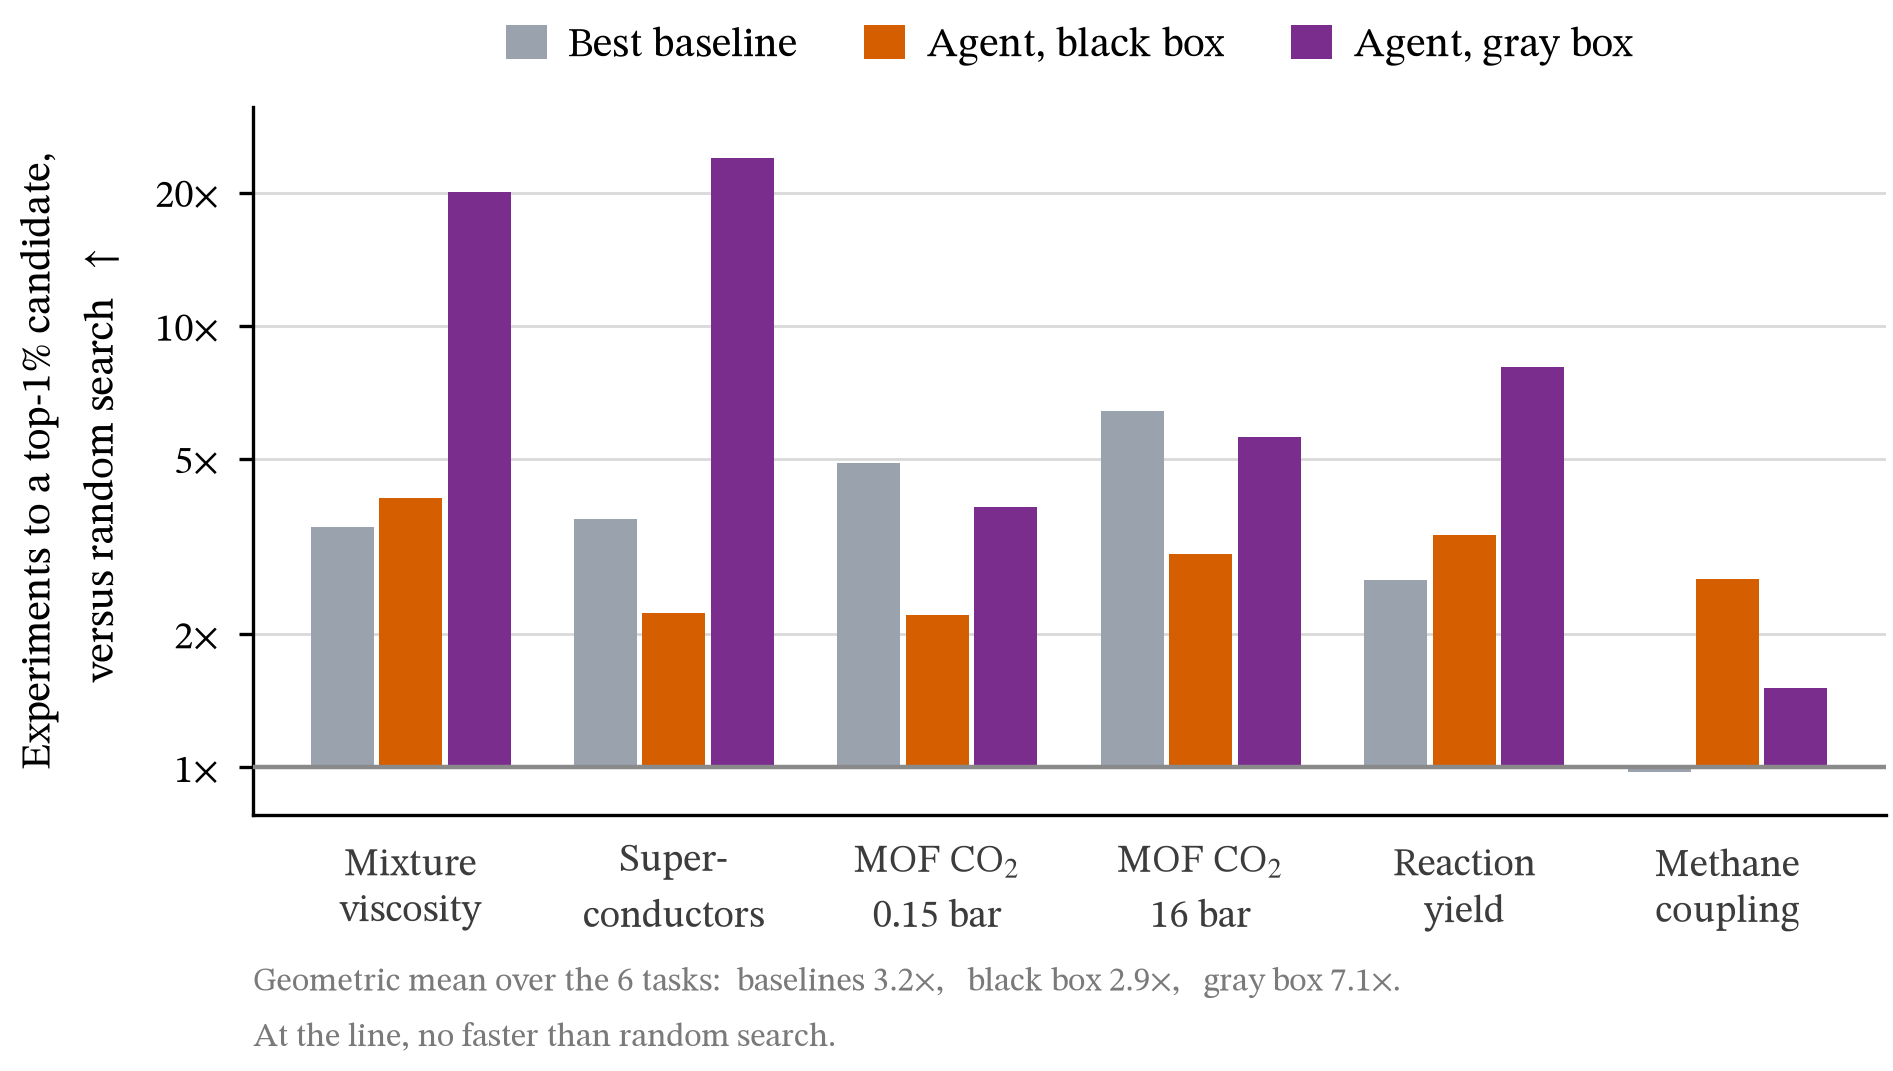
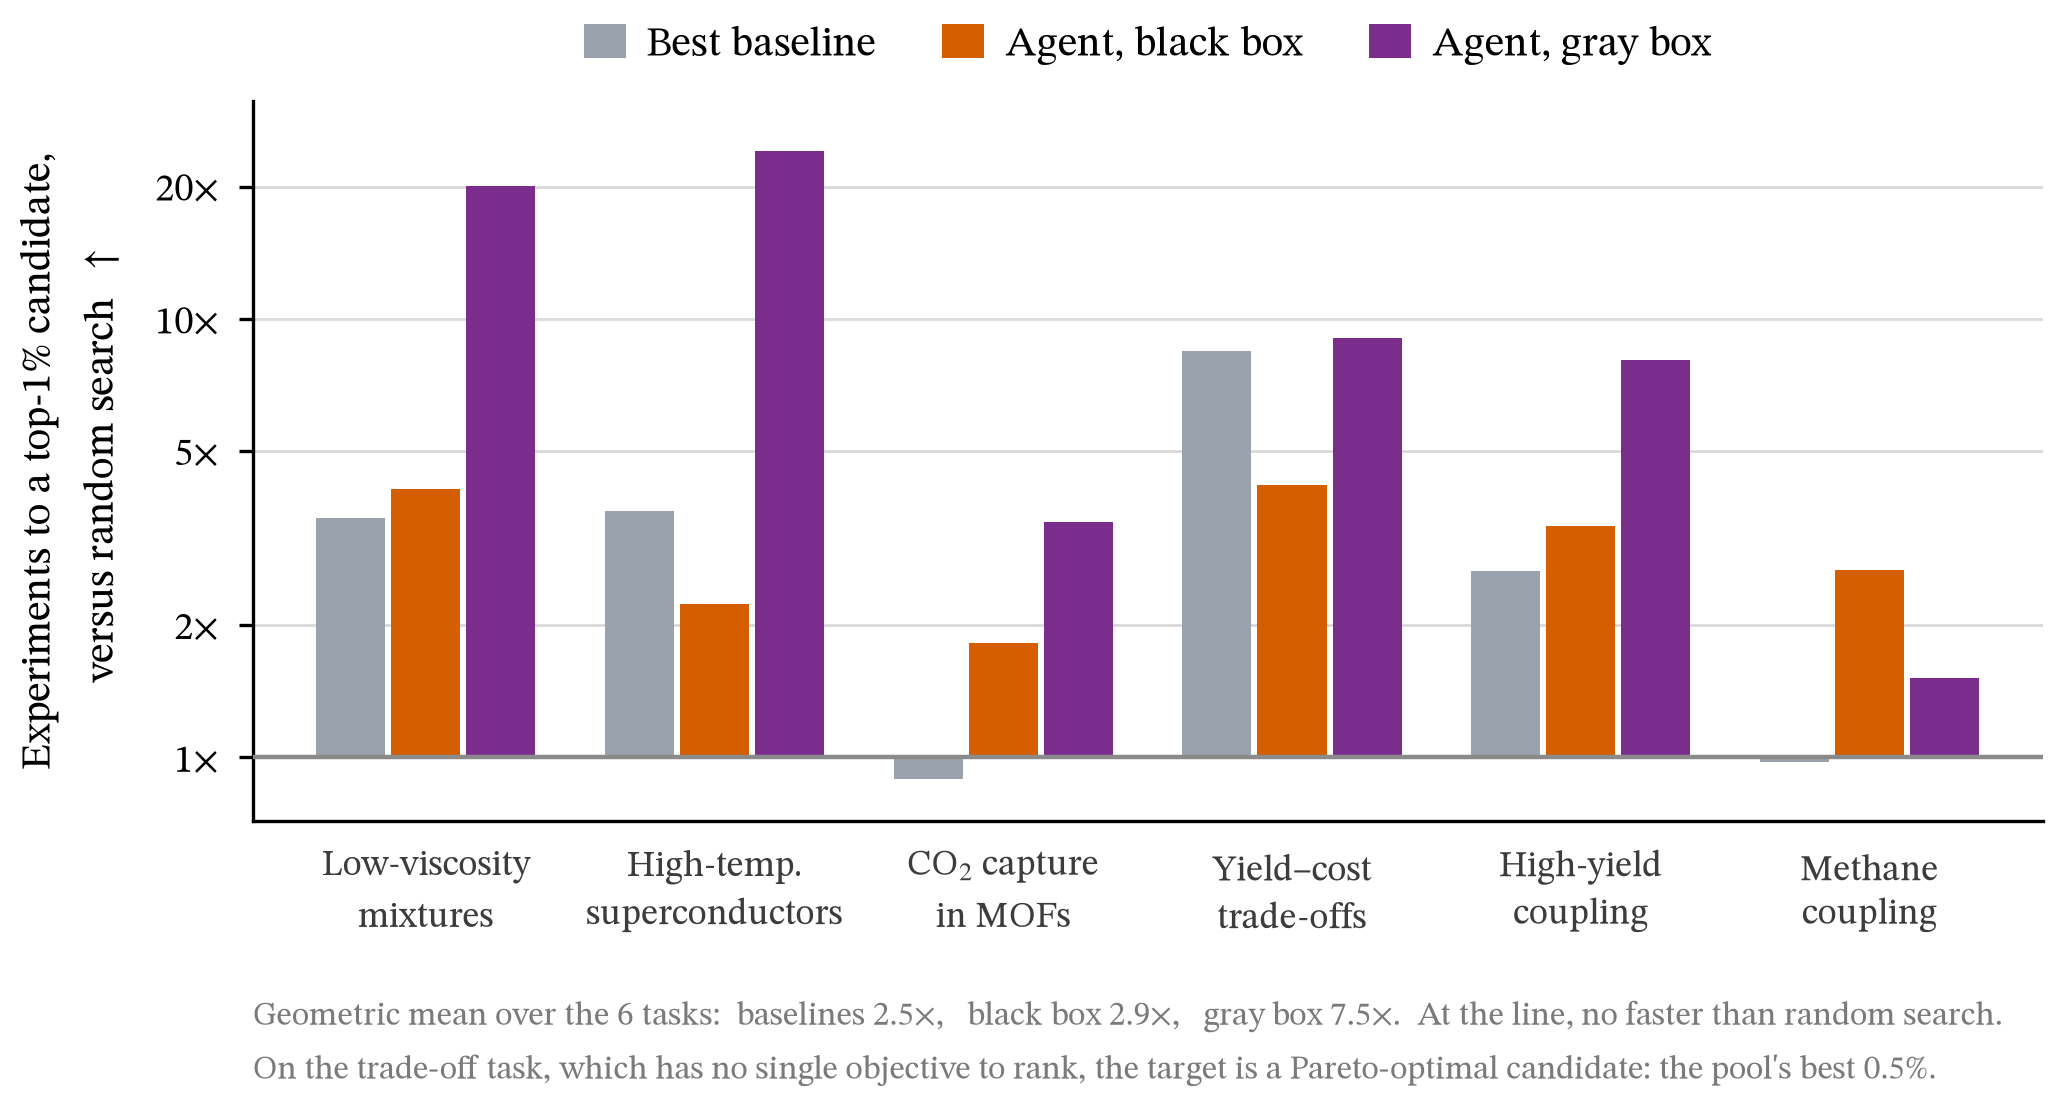
Figure 4a: the campaign's own six tasks, one group each
Back to the six the gray-box campaign reports, in its order, including the
yield-cost task. It is multiobjective, so there is no column to take a
percentile of; its target is a Pareto-optimal candidate instead -- nine rows
of 1,728, the pool's best 0.5%, close enough to what the other five ask for,
and the caption says so.

The baseline bar is again the best classical optimizer each task carries,
which on this set means gp_qlogehvi on the trade-off task and
batch_gp_qlogei on the batch one.

diff --git a/benchmark/src/aobench/fig4.py b/benchmark/src/aobench/fig4.py
@@ -6,6 +6,10 @@ than random search to turn up a top-1% candidate. It reads without a definition 
 random search needed 24 times as many experiments -- and the top-k% target is what keeps it
 finite, since random search almost never finds the single best row of a pool this size.
 
+rct_2 is multiobjective, so there is no single column to take a percentile of. Its target is a
+Pareto-optimal candidate instead: nine rows out of 1,728, the pool's best 0.5%, so it asks for
+about the same thing the other five ask for. Say so in the caption.
+
 One group per task, three bars in it, so the ordering (baselines, then the agent without the
 variable descriptions, then the agent with them) is read six times over rather than once in an
 average, and the tasks that break it are visible as themselves. The bars grow from the 1x line
@@ -33,16 +37,15 @@ import matplotlib.pyplot as plt  # noqa: E402
 from .figures import STYLE, WIDTH  # noqa: E402
 
 TOP_PCT = 1.0
-# Six questions, each asked once. Three tasks that carry all three arms are left out and the
-# reasons differ: rct_2 is multiobjective, so there is no single label column to take a
-# percentile of, and mat_5 / mat_6 are mat_1 / mat_2 over again at a smaller budget -- keeping
-# them would count the same two MOF questions twice and make the set half one chemistry.
+# The six tasks of the gray-box campaign, in its own order. mat_1 / mat_2 / mat_6 also carry
+# all three arms and could be added, but mat_5 is already the MOF question and they are it
+# again over other pools and budgets.
 TASKS = {
-    "mix_1": ("Mixture\nviscosity", "min"),
-    "sup": ("Super-\nconductors", "max"),
-    "mat_1": ("MOF CO$_2$\n0.15 bar", "max"),
-    "mat_2": ("MOF CO$_2$\n16 bar", "max"),
-    "rct_1": ("Reaction\nyield", "max"),
+    "mix_1": ("Low-viscosity\nmixtures", "min"),
+    "sup": ("High-temp.\nsuperconductors", "max"),
+    "mat_5": ("CO$_2$ capture\nin MOFs", "max"),
+    "rct_2": ("Yield–cost\ntrade-offs", "pareto"),
+    "rct_1": ("High-yield\ncoupling", "max"),
     "btch": ("Methane\ncoupling", "max"),
 }
 REFERENCE = ["pool_random", "batch_random"]  # what the acceleration is measured against
@@ -50,8 +53,10 @@ ARMS = {
     # The baseline bar is the best of whatever classical optimizers the task carries, so the
     # agent is never credited for beating a method nobody would have chosen. It flatters the
     # baselines: the best one per task is picked after the fact, which is an oracle a
-    # practitioner does not have.
-    "baseline": ("Best baseline", "#9AA3AD", ["gp_bo", "sobol_gp_bo", "turbo", "batch_gp_qlogei"]),
+    # practitioner does not have. gp_qlogehvi is the multiobjective one, batch_gp_qlogei the
+    # batch one; each is the only classical method its protocol admits.
+    "baseline": ("Best baseline", "#9AA3AD",
+                 ["gp_bo", "sobol_gp_bo", "turbo", "batch_gp_qlogei", "gp_qlogehvi"]),
     "blackbox": ("Agent, black box", "#D55E00", ["cheapest_lunch_opus_5_5_high"]),
     "graybox": ("Agent, gray box", "#7B2D8E", ["cheapest_lunch_opus_5_5_high_domain_context"]),
 }
@@ -59,14 +64,19 @@ INK = "#3C3C3C"
 RULE = "#D9D9D9"
 
 
-def threshold(pool: Path, task: str) -> float:
-    """The value a candidate must beat to be in the task's best 1% of the pool."""
+def target(pool: Path, task: str):
+    """`reached(value)` for the task: in the pool's best 1%, or on its Pareto front."""
+    sense = TASKS[task][1]
+    if sense == "pareto":
+        return lambda v: v > 0  # pareto_recovery: any fraction of the front found
     ys = np.loadtxt(pool / f"{task}.csv", skiprows=1)
-    return float(np.percentile(ys, TOP_PCT if TASKS[task][1] == "min" else 100 - TOP_PCT))
+    thr = float(np.percentile(ys, TOP_PCT if sense == "min" else 100 - TOP_PCT))
+    return (lambda v: v <= thr) if sense == "min" else (lambda v: v >= thr)
 
 
 def runs(results: Path, task: str, methods: list[str]) -> dict[str, list[list[tuple[float, float]]]]:
-    """method -> one (evaluation, measured value) curve per seed."""
+    """method -> one (evaluation, score) curve per seed, the score being what target() reads."""
+    col = "pareto_recovery" if TASKS[task][1] == "pareto" else "raw_value"
     out: dict[str, list[list[tuple[float, float]]]] = {}
     for m in methods:
         d = results / "tasks" / task / m
@@ -75,10 +85,10 @@ def runs(results: Path, task: str, methods: list[str]) -> dict[str, list[list[tu
             if not f.exists():
                 continue
             rows = list(csv.DictReader(open(f)))
-            if not rows or "raw_value" not in rows[0]:
+            if not rows or col not in rows[0]:
                 continue
             ev = "eval_idx" if "eval_idx" in rows[0] else "batch_completed_evaluations"
-            c = [(float(r[ev]), float(r["raw_value"])) for r in rows if r.get("raw_value")]
+            c = [(float(r[ev]), float(r[col])) for r in rows if r.get(col)]
             if c:
                 out.setdefault(m, []).append(c)
     return out
@@ -87,9 +97,8 @@ def runs(results: Path, task: str, methods: list[str]) -> dict[str, list[list[tu
 def collect(results: Path, pool: Path):
     """task -> arm -> acceleration factor over random search, and the raw evaluation counts."""
     data, raw = {}, {}
-    for task, (_, sense) in TASKS.items():
-        thr = threshold(pool, task)
-        reached = (lambda v: v <= thr) if sense == "min" else (lambda v: v >= thr)
+    for task in TASKS:
+        reached = target(pool, task)
         groups = {a: runs(results, task, ms) for a, (_, _, ms) in ARMS.items()}
         groups["random"] = runs(results, task, REFERENCE)
         if not all(groups.values()):
@@ -118,7 +127,7 @@ def geomean(xs):
 def draw(data, out: Path):
     keys = list(ARMS)
     tasks = list(data)
-    fig, ax = plt.subplots(figsize=(WIDTH * 0.72, 2.9))
+    fig, ax = plt.subplots(figsize=(WIDTH * 0.78, 2.95))
 
     w = 0.26  # three of these span 0.78 of the 1.0 slot: a clear gap between groups
     lo = min(v for row in data.values() for v in row.values())
@@ -142,18 +151,20 @@ def draw(data, out: Path):
                   r"$\uparrow$", fontsize=7.5, linespacing=1.5)
 
     ax.set_xticks(range(len(tasks)))
-    ax.set_xticklabels([TASKS[t][0] for t in tasks], fontsize=7, linespacing=1.3, color=INK)
+    ax.set_xticklabels([TASKS[t][0] for t in tasks], fontsize=6.6, linespacing=1.3, color=INK)
     ax.set_xlim(-0.6, len(tasks) - 0.4)
     ax.tick_params(axis="x", length=0, pad=4)
 
     means = {a: geomean(row[a] for row in data.values()) for a in keys}
-    ax.legend(loc="upper center", bbox_to_anchor=(0.5, 1.17), ncol=3, frameon=False,
+    short = {"baseline": "baselines", "blackbox": "black box", "graybox": "gray box"}
+    ax.legend(loc="upper center", bbox_to_anchor=(0.5, 1.16), ncol=3, frameon=False,
               fontsize=7.5, handlelength=1.0, handleheight=0.9, columnspacing=1.6,
               handletextpad=0.5)
-    short = {"baseline": "baselines", "blackbox": "black box", "graybox": "gray box"}
-    ax.text(-0.6, -0.20, f"Geometric mean over the {len(tasks)} tasks:  "
+    ax.text(-0.6, -0.235, f"Geometric mean over the {len(tasks)} tasks:  "
             + ",   ".join(f"{short[a]} {means[a]:.1f}$\\times$" for a in keys)
-            + ".\nAt the line, no faster than random search.",
+            + ".  At the line, no faster than random search.\nOn the trade-off task, which has "
+            "no single objective to rank, the target is a Pareto-optimal candidate: "
+            "the pool's best 0.5%.",
             transform=ax.get_xaxis_transform(), ha="left", va="top", fontsize=6,
             color="#7A7A7A", linespacing=1.6)
 
@@ -162,7 +173,7 @@ def draw(data, out: Path):
     for sp in ("top", "right"):
         ax.spines[sp].set_visible(False)
 
-    fig.subplots_adjust(left=0.145, right=0.985, top=0.87, bottom=0.26)
+    fig.subplots_adjust(left=0.135, right=0.985, top=0.88, bottom=0.27)
     out.parent.mkdir(parents=True, exist_ok=True)
     for ext in ("png", "pdf"):
         fig.savefig(f"{out}.{ext}", dpi=400)
